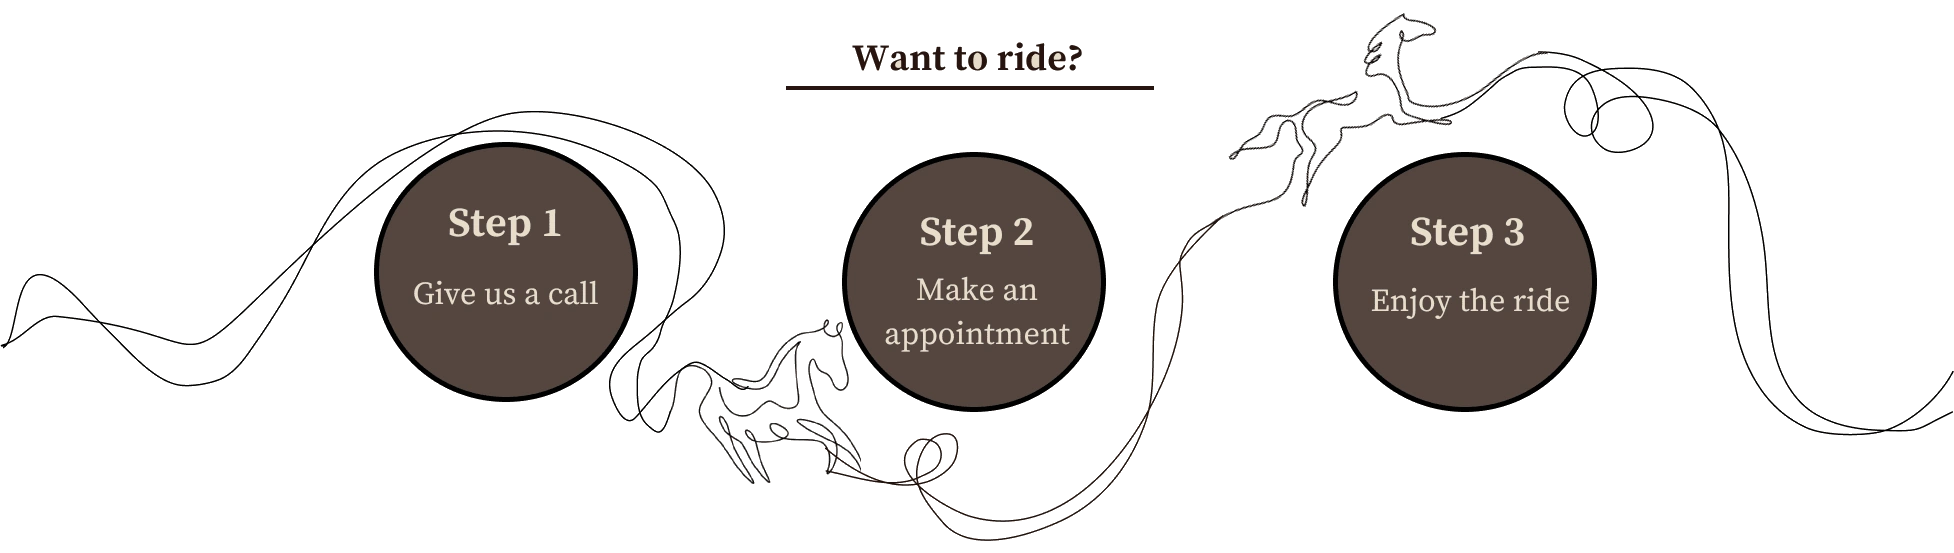
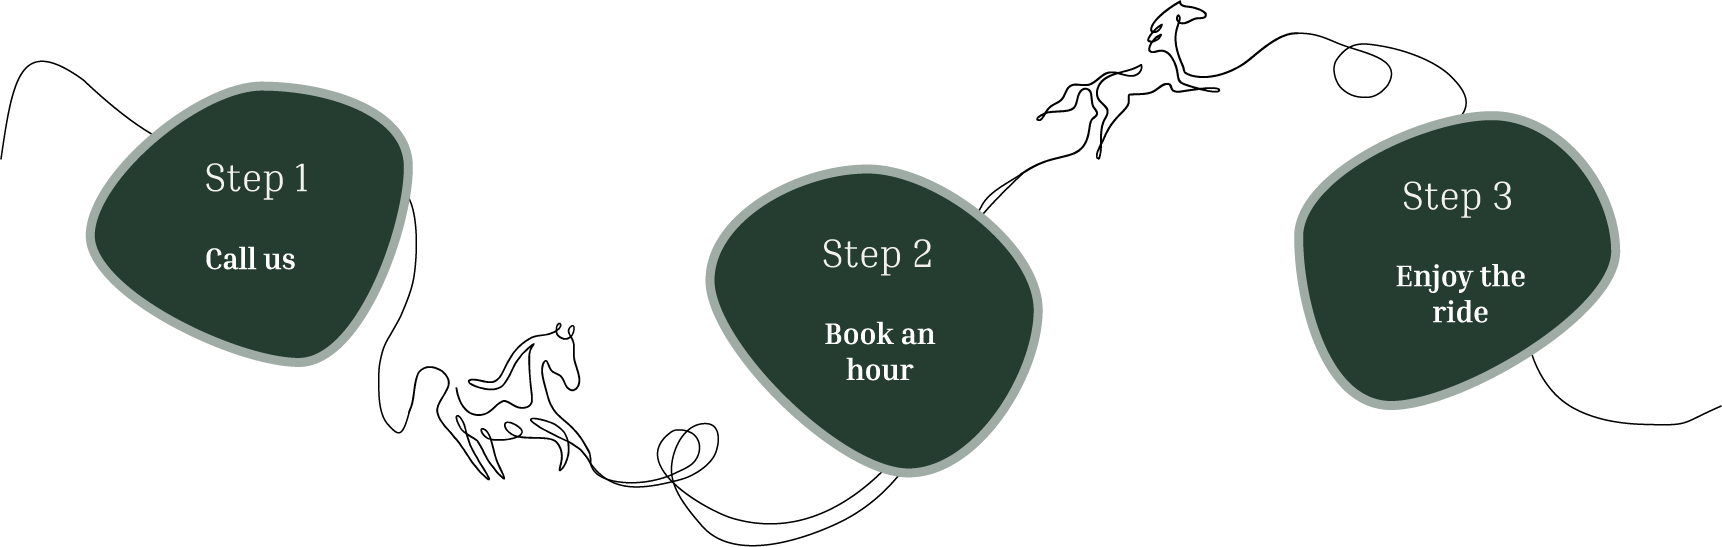
🥺 Added the new design for the steps

diff --git a/src/components/WelcomePage.jsx b/src/components/WelcomePage.jsx
@@ -6,10 +6,11 @@ import AdgorVideo from "./images/adgorStartingVideo.webm";
 import TrenirovkiNaKone from "./images/TrenirovkiNaKoneIMG.webp";
 import Pansion from "./images/PansionIMG.webp";
 import Ezda from "./images/EzdaIMG.webp";
-import Steps from "./images/Steps.webp";
+// import Steps from "./images/Steps.webp";
 import StepsEn from "./images/StepsEn.webp";
-import StepsSmall from "./images/StepsSmall.webp";
+// import StepsSmall from "./images/StepsSmall.webp";
 import StepsSmallEn from "./images/StepsSmallEn.webp";
+import StepsMobile from "./images/StepsMobile.webp";
 import LineHores from "./images/twohorses.webp";
 // import Foundation from "./images/Foundation.webp";
 // import FoundationCutUp from "./images/FoundationCutUp.png";
@@ -33,6 +34,7 @@ import { useTranslation } from "react-i18next";
 import { VoucherForm } from "./Vouchers";
 import { IoClose } from "react-icons/io5";
 import { FaChevronLeft, FaChevronRight } from "react-icons/fa";
+import { useMediaQuery } from "@mui/material";
 
 const ImageModal = ({ isOpen, images, currentIndex, onClose, onNext, onPrev }) => {
   if (!isOpen) return null;
@@ -58,6 +60,8 @@ const ImageModal = ({ isOpen, images, currentIndex, onClose, onNext, onPrev }) =
 const WelcomePage = () => {
   const { t, i18n } = useTranslation();
   const [openGallery, setOpenGallery] = useState({ isOpen: false, images: [], currentIndex: 0 });
+  const isDesktop = useMediaQuery('(min-width: 800px)');
+  const isTablet = useMediaQuery('(min-width: 500px)');
 
   useEffect(() => {
     const GetGalleries = () => {
@@ -258,38 +262,27 @@ const WelcomePage = () => {
         </a>
       </div>
 
-      {window.innerWidth > 800 ? (
-        <img src={i18n.language === "bg" ? Steps : StepsEn} alt="" width={"100%"} style={{ margin: "50px 0px" }} />
+      {isDesktop ? (
+        // <img src={i18n.language === "bg" ? Steps : StepsEn} alt="" width={"100%"} style={{ margin: "50px 0px" }} />
+        <img src={StepsEn} alt="" width={"100%"} style={{ margin: "50px 0px" }} />
       ) : (
         <>
-          {window.innerWidth > 500 ? (
+          {isTablet ? (
             <img
-              src={i18n.language === "bg" ? StepsSmall : StepsSmallEn}
+              // src={i18n.language === "bg" ? StepsSmall : StepsSmallEn}
+              src={StepsSmallEn}
               alt=""
               width={"100%"}
               style={{ margin: "25px 0px" }}
             />
           ) : (
-            <div>
-              <div className="alignCenter">
-                <p id="WantToRide">{t("youWantToRide")}</p>
-              </div>
-
-              <div
-                style={{
-                  display: "flex",
-                  justifyContent: "center",
-                  fontSize: "6vw",
-                }}
-              >
-                <ul>
-                  <li>{t("callUs")}</li>
-                  <li>{t("makeAnAppointment")}</li>
-                  <li>{t("enjoyTheRide")}</li>
-                </ul>
-              </div>
-              <img src={LineHores} alt="" width={"100%"} />
-            </div>
+            <img
+              // src={i18n.language === "bg" ? StepsSmall : StepsSmallEn}
+              src={StepsSmallEn}
+              alt=""
+              width={"100%"}
+              style={{ margin: "25px 0px" }}
+            />
           )}
         </>
       )}
